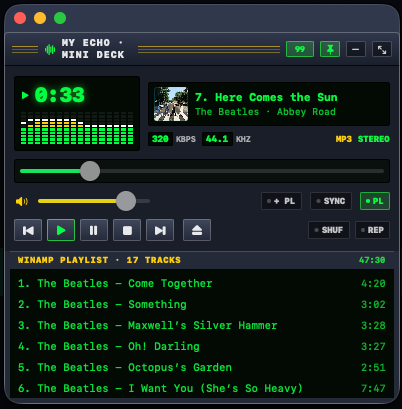
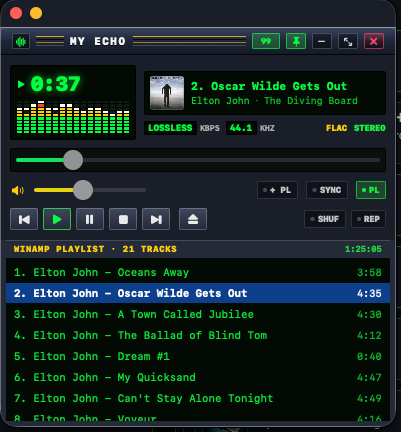
Docs: Add updated Winamp Mini Player, Crossfade & Play Queue screenshots

diff --git a/README.md b/README.md
@@ -82,10 +82,14 @@ Whether you just want a clean offline MP3 player sync tool or a full homelab aud
 
 ![My Echo Subscribed Podcasts Grid](docs/screenshots/podcasts-subscribed-grid.png)
 
-### Floating Winamp-Style Mini Player (`⌘⇧M`) · Live 16-Band Spectrum & Resizable `PL` Drawer
-<p align="center">
-  <img src="docs/screenshots/mini-player-winamp.png" alt="My Echo Winamp Mini Player" width="420" />
-</p>
+### Floating Winamp-Style Mini Player (`⌘⇧M`), Equal-Power Crossfade & Live Play Queue
+<table>
+  <tr>
+    <td align="center"><img src="docs/screenshots/mini-player-winamp.png" alt="My Echo Winamp Mini Player" width="320" /></td>
+    <td align="center"><img src="docs/screenshots/player-crossfade-popover.png" alt="My Echo Equal-Power Crossfade Control" width="260" /></td>
+    <td align="center"><img src="docs/screenshots/player-queue-popover.png" alt="My Echo Live Play Queue" width="260" /></td>
+  </tr>
+</table>
 
 ---
 
